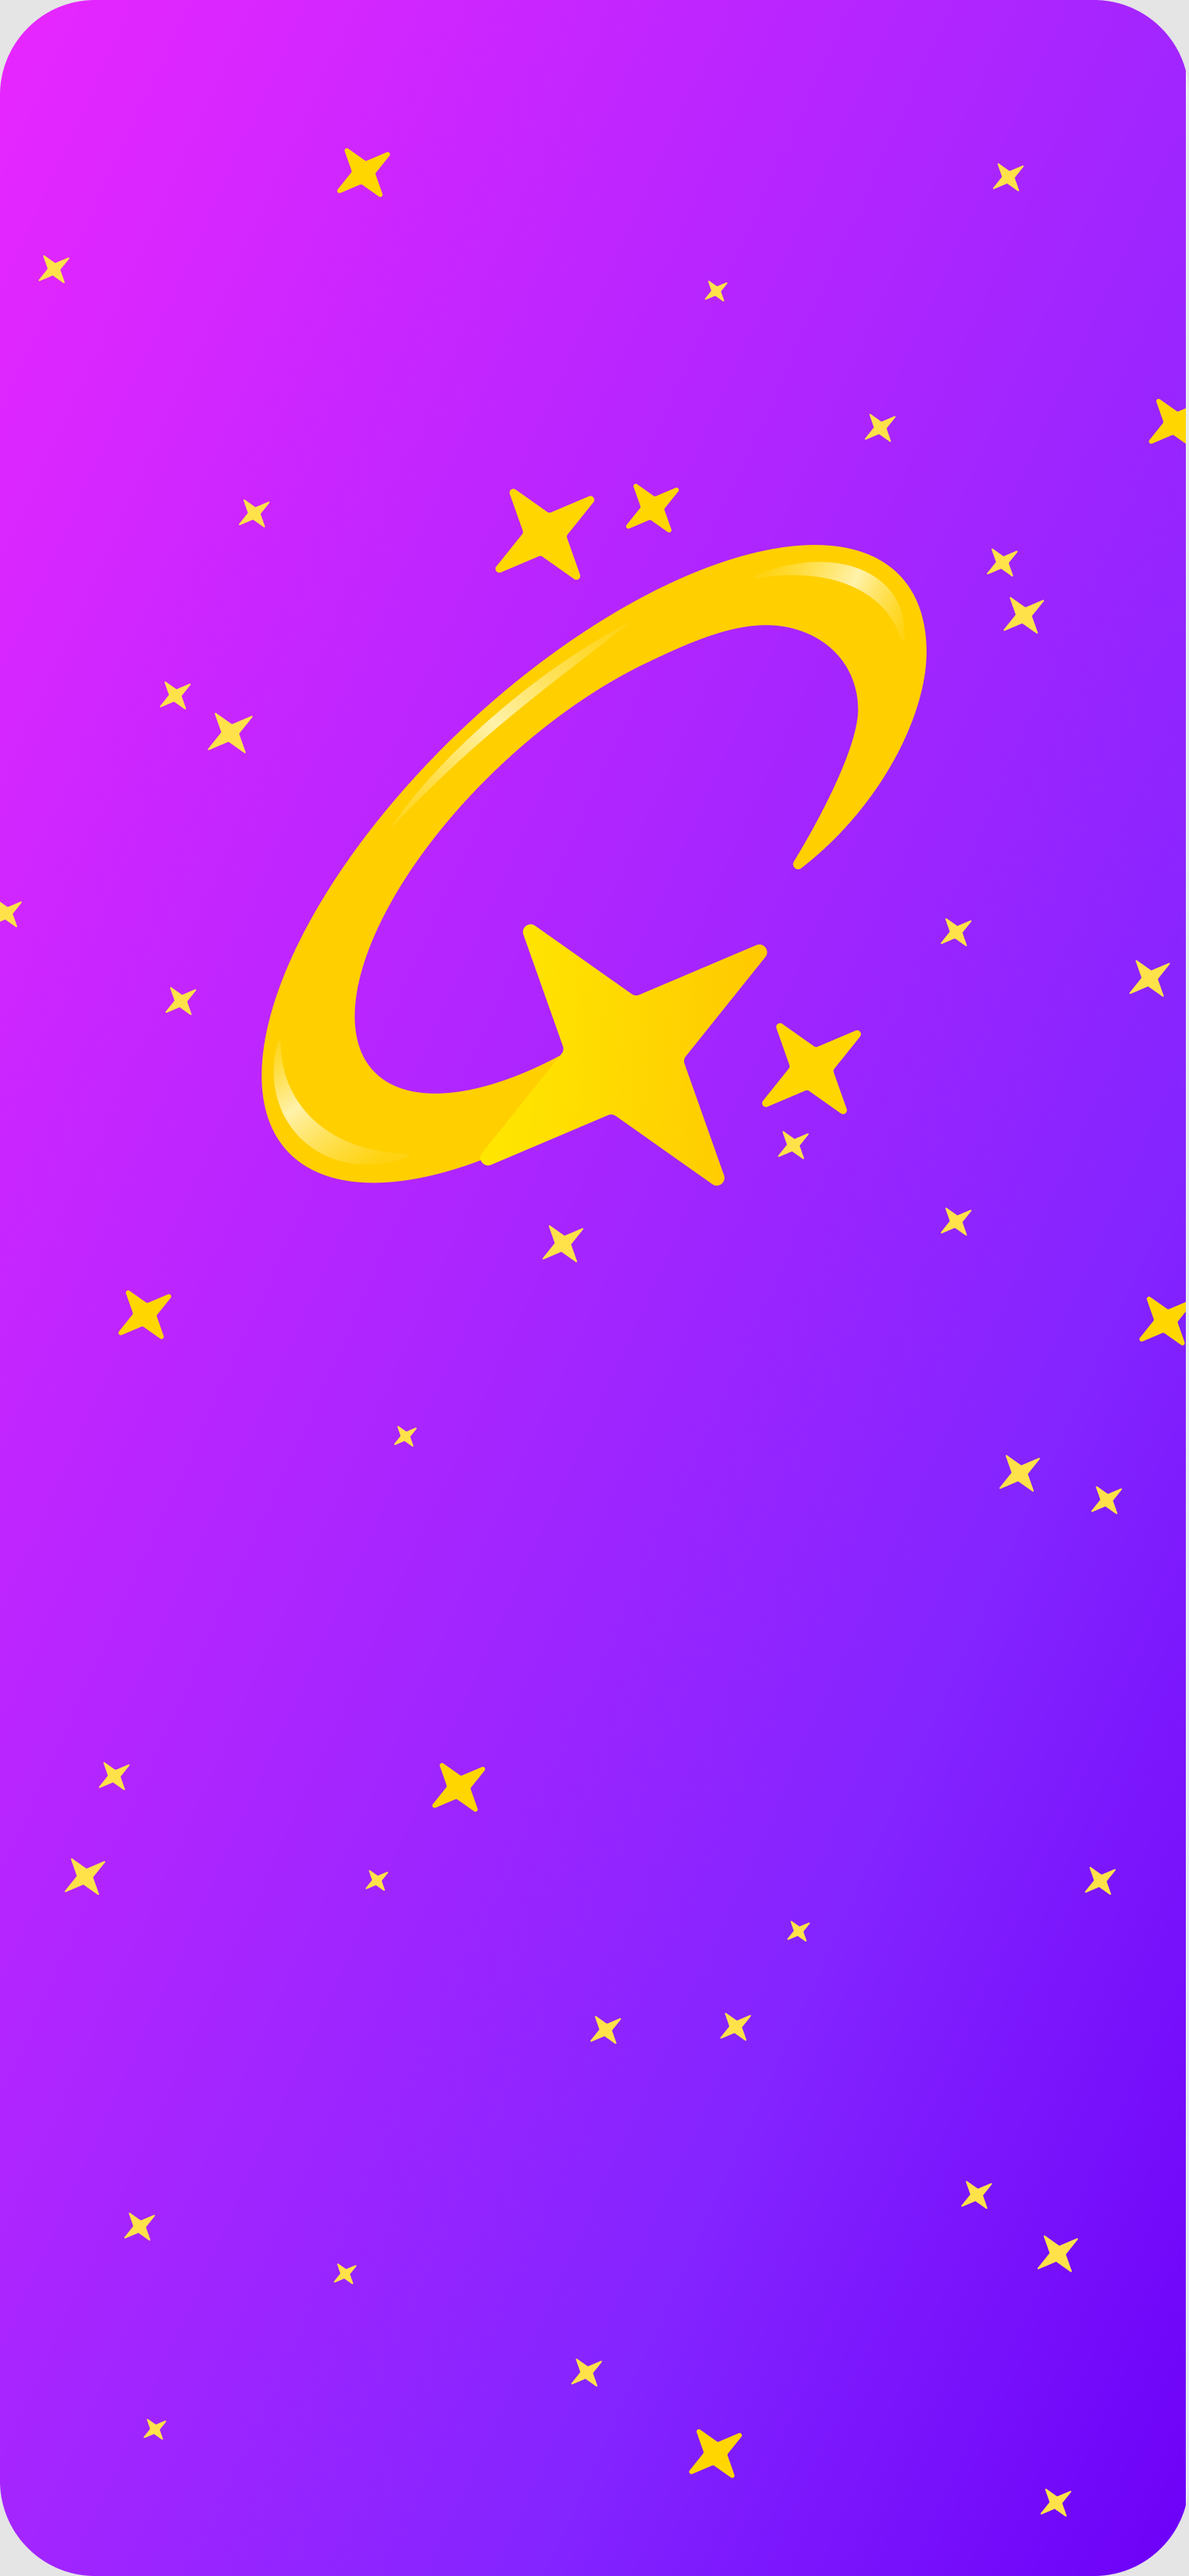
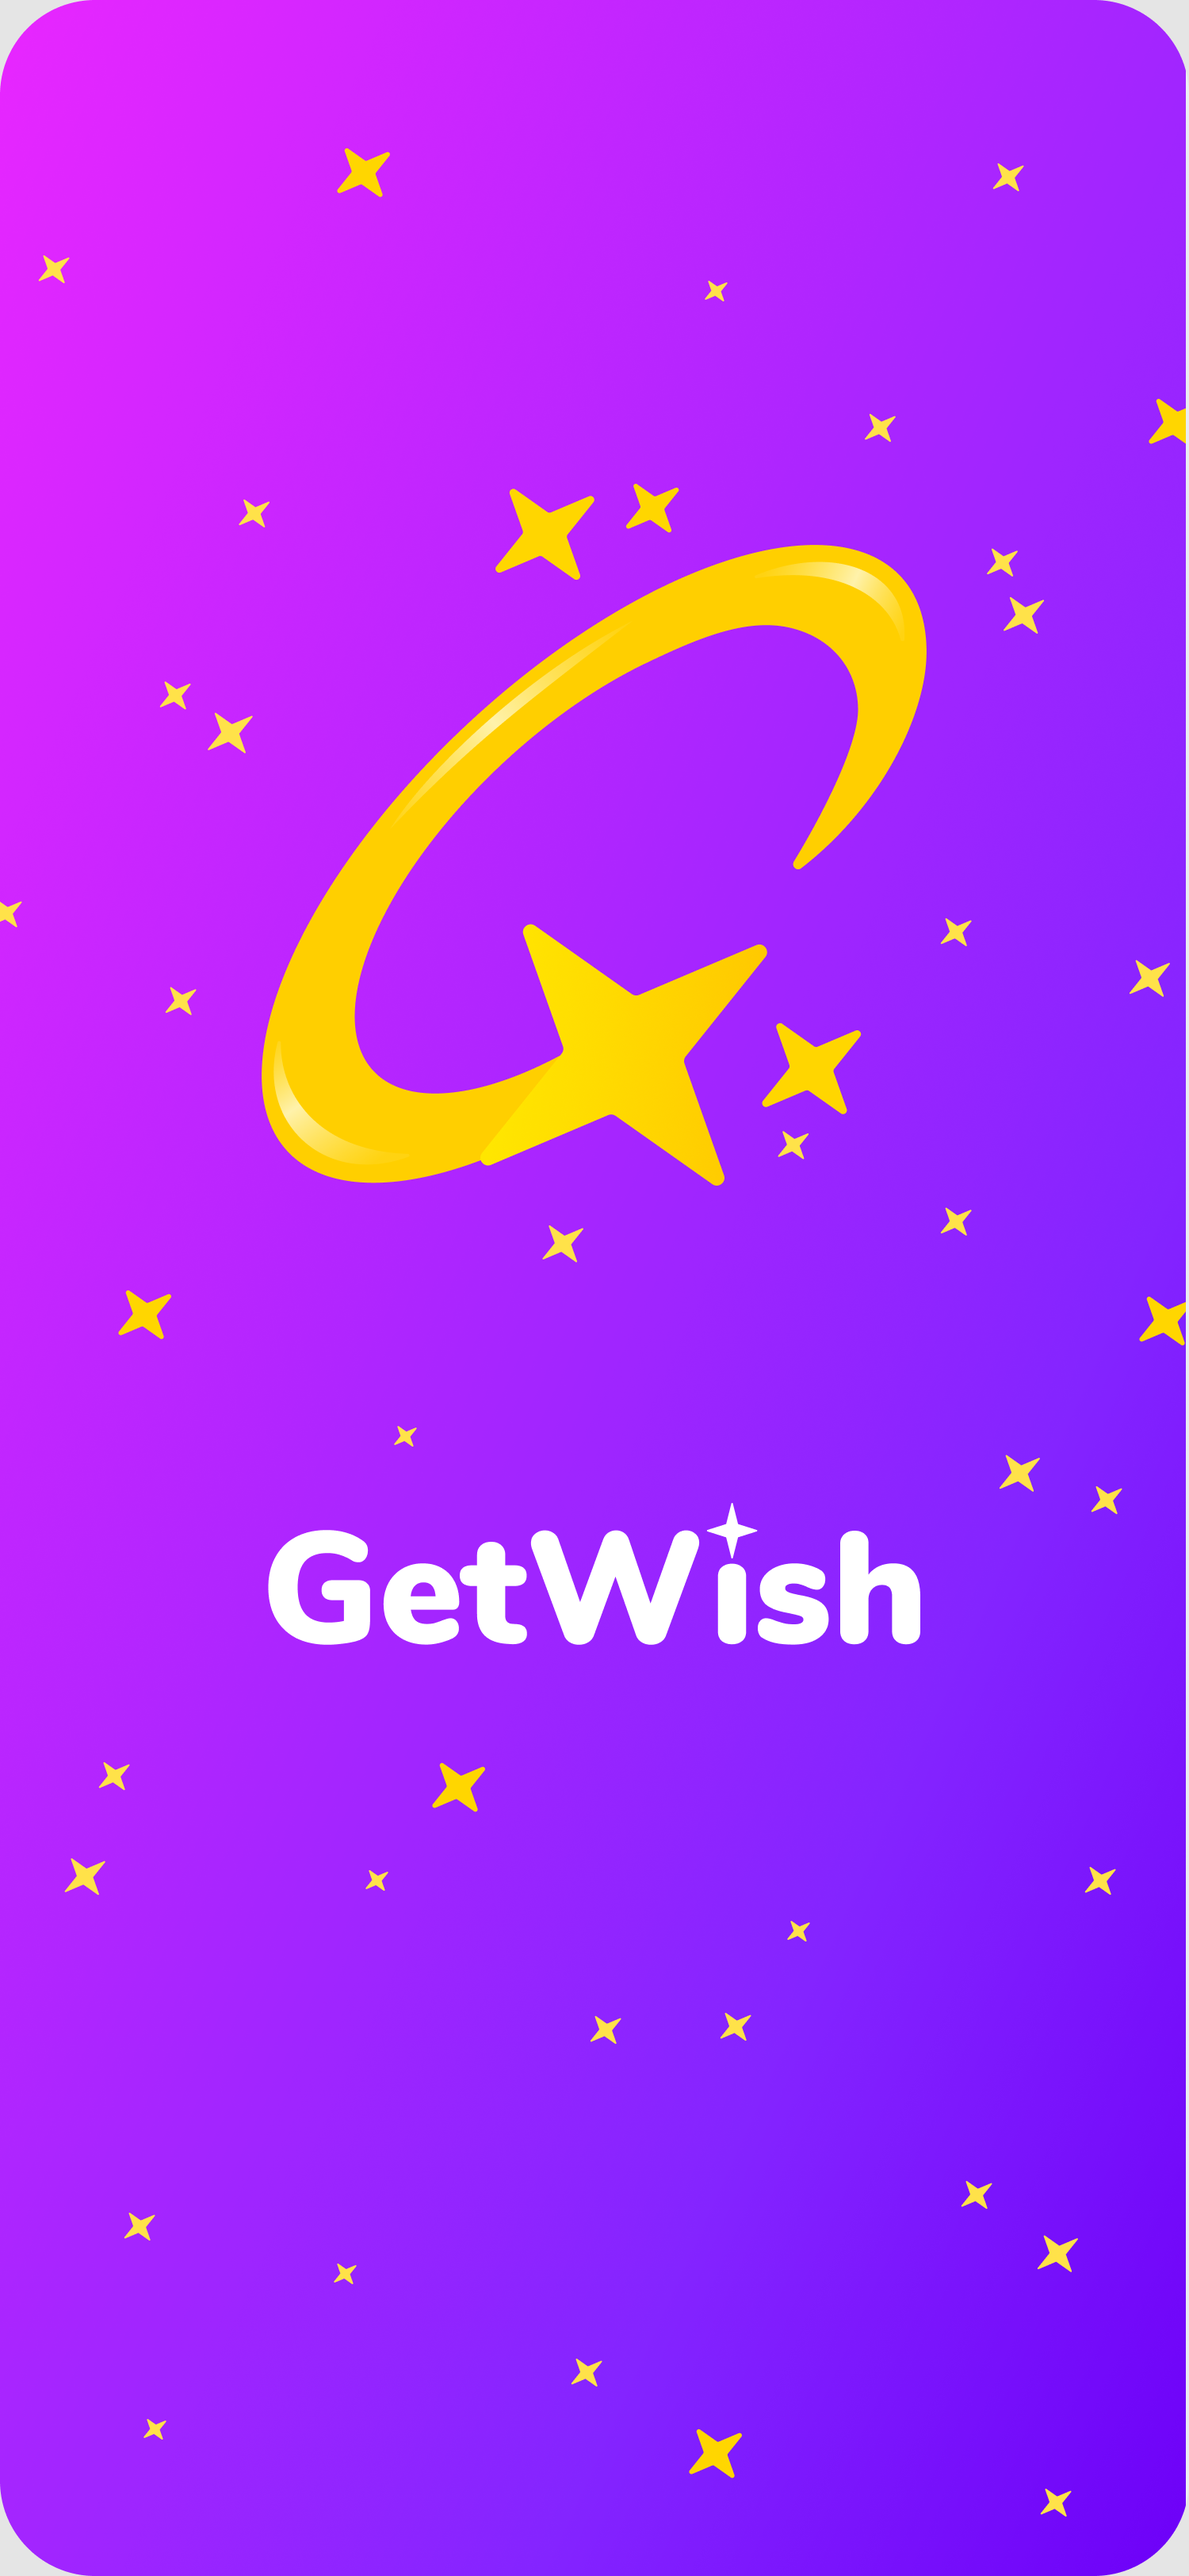
update

Changed region(s): [[0.2147, 0.5908, 0.7973, 0.653]]

diff --git a/components/Shared/Nickname.jsx b/components/Shared/Nickname.jsx
@@ -4,11 +4,14 @@ import {LoaderNickname} from "../index";
 import {Animated} from "react-native";
 import Easing from "react-native-web/dist/vendor/react-native/Animated/Easing";
 import {delay} from "../../functions";
+import {checkAvailability} from "../../redux/actions/authActions";
 
 function Nickname(props) {
     const {
         field: { name, onChange, value },
         form: { errors, touched, submitForm, isSubmitting},
+        setCanRegistration,
+        availability, setAvailability
     } = props
     let timeout
     const hasError = errors[name] && touched[name]
@@ -36,11 +39,14 @@ function Nickname(props) {
         })
     }
 
-    const showLoading = async () => {
+    const showLoading = async (text) => {
         setPreLoading(true);
         await delay(1200)
         setLoading(true)
-        timeout = setTimeout(function () {
+        timeout = setTimeout(async function () {
+            const availability = await checkAvailability(text)
+            setAvailability(availability)
+            !availability && setCanRegistration(false)
             setLoading(false);
             setPreLoading(false);
             submitForm()
@@ -55,15 +61,16 @@ function Nickname(props) {
                                if (text.length !== 0) {
                                    if (text.match(/^(?=.*[a-z_.])[\w.]+$/)) {
                                        await onChange(name)(text)
-                                       loading ? setLoading(false) : text.length >= 3 && await showLoading()
+                                       loading ? setLoading(false) : text.length >= 3 && await showLoading(text)
                                    }
                                } else {
                                    await onChange(name)(text)
-                                   loading ? setLoading(false) : text.length >= 3 && await showLoading()
+                                   loading ? setLoading(false) : text.length >= 3 && await showLoading(text)
                                }
                            }}
                            autoCapitalize="none"/>
-            {!hasError && isSubmitting && !preLoading && !loading && <NicknameSuccess>Никнейм свободен</NicknameSuccess>}
+            {!hasError && availability && isSubmitting && !preLoading && !loading && <NicknameSuccess>Никнейм свободен</NicknameSuccess>}
+            {!hasError && !availability && isSubmitting && !preLoading && !loading && <NicknameError>К сожалению, этот никнейм уже занят</NicknameError>}
             {hasError && !preLoading && !loading && <NicknameError>{errors[name]}</NicknameError>}
             {loading && <LoaderNickname loading={loading} animate_state={animate_state} spin={spin} spinValue={spinValue}/>}
         </>

diff --git a/components/AuthSteps/EnterNicknameStep.jsx b/components/AuthSteps/EnterNicknameStep.jsx
@@ -15,6 +15,7 @@ function EnterNicknameStep() {
     const {data, handleChangeObject, navigation, dispatch} = useContext(AuthContext)
 
     const [loading, setLoading] = React.useState(true)
+    const [availability, setAvailability] = React.useState(false)
 
     const nicknameValidationSchema = yup.object().shape({
         nickName: yup
@@ -33,8 +34,8 @@ function EnterNicknameStep() {
             try {
                 const user = await userCRUD.search()
                 if (user) {
+                    await dispatch({type: SET_USER_INFO, payload: user})
                     if (user?.username) {
-                        await dispatch({type: SET_USER_INFO, payload: user})
                         await dispatch({type: SET_AUTH, payload: true})
                         navigation.navigate('MainNavigator', { screen: 'Main' });
                     }
@@ -75,7 +76,7 @@ function EnterNicknameStep() {
                     }}
                 >
                     {({errors}) => {
-                        if (Object.keys(errors).length !== 0) {
+                        if (Object.keys(errors).length !== 0 || !availability) {
                             setCanRegistration(false)
                         }
                         return (
@@ -83,6 +84,8 @@ function EnterNicknameStep() {
                                 <NicknameContainer>
                                     <NicknameLabel><NicknameLabelText>Никнейм</NicknameLabelText></NicknameLabel>
                                     <Field
+                                        setCanRegistration={setCanRegistration}
+                                        availability={availability} setAvailability={setAvailability}
                                         component={Nickname}
                                         name="nickName"
                                     />

diff --git a/screens/Auth/StartScreen.jsx b/screens/Auth/StartScreen.jsx
@@ -1,5 +1,5 @@
 import React from 'react';
-import {ImageWishList, StartTouchableOpacity, StartWrapper} from "../../styles/auth";
+import {StartTouchableOpacity, StartWrapper} from "../../styles/auth";
 import NavigationService from "../../functions/NavigationService";
 
 const StartScreen = (props) => {
@@ -12,7 +12,6 @@ const StartScreen = (props) => {
     return (
         <StartWrapper source={require('../../assets/images/auth/background.png')} resizeMode="cover" >
             <StartTouchableOpacity onPress={handleStart}>
-                <ImageWishList source={require('../../assets/images/auth/GetWish.png')}/>
             </StartTouchableOpacity>
         </StartWrapper>
     );

diff --git a/redux/actions/authActions.js b/redux/actions/authActions.js
@@ -14,6 +14,18 @@ export const sendCode = async (phone) => {
     }
 }
 
+export const checkAvailability = async (username) => {
+    try {
+        const res = await $authHost.post('/api/v1/user/availability', {
+            username
+        })
+        return res.status === 200;
+    } catch (e) {
+        console.log(e)
+        return false
+    }
+}
+
 export const getUser = async () => {
     try {
          return parseResponse(await $authHost.get('/api/v1/user'))
